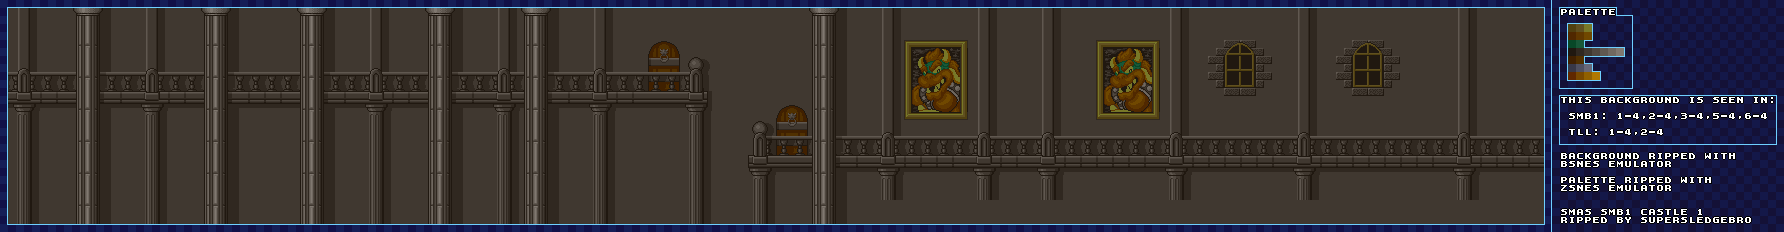
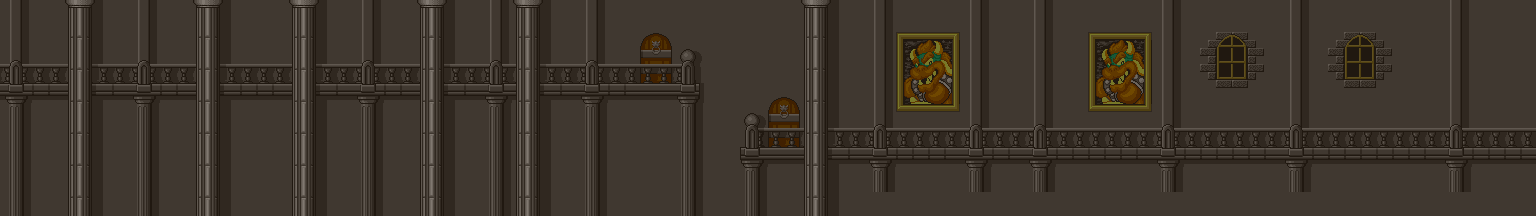
Castle tiles and background

diff --git a/Source/Game/Editor/Windows/TileWindow.cs b/Source/Game/Editor/Windows/TileWindow.cs
@@ -8,6 +8,7 @@
             TileObjectDefs.Block,
             TileObjectDefs.QuestionTile,
             TileObjectDefs.QuestionTile_Empty,
+            TileObjectDefs.QuestionTile_Empty_Castle,
             TileObjectDefs.Brick,
             TileObjectDefs.Pipe,
             TileObjectDefs.GrassDecor,
@@ -18,6 +19,18 @@
             TileObjectDefs.BlockUg,
             TileObjectDefs.Tree,
             TileObjectDefs.TreeTrunk,
+            TileObjectDefs.CastleFloor,
+            TileObjectDefs.CastleFloorInnerLeft,
+            TileObjectDefs.CastleFloorInnerRight,
+            TileObjectDefs.CastleStair1,
+            TileObjectDefs.CastleStair2,
+            TileObjectDefs.CastleStair3,
+            TileObjectDefs.CastleStair4,
+            TileObjectDefs.CastleCeiling,
+            TileObjectDefs.CastleCeilingSingle,
+            TileObjectDefs.CastleBridge,
+            TileObjectDefs.Chain,
+            TileObjectDefs.Lava,
         ];
 
         public override void Update() { }
@@ -28,10 +41,26 @@
         public static readonly BasicTile Block = new(16, true, 0, 2);
         public static readonly BasicTile BlockUg = new(20, true, 4, 2);
         public static readonly BasicTile QuestionTile_Empty = new(18, true, 2, 2);
+        public static readonly BasicTile QuestionTile_Empty_Castle = new(31, true, 7, 3);
+        public static readonly BasicTile CastleCeilingSingle = new(126, true, 6, 15);
+        public static readonly BasicTile CastleBridge = new(118, true, 6, 14);
+        public static readonly BasicTile Chain = new(110, false, 6, 13);
+        public static readonly BasicTile CastleFloorInnerLeft = new(120, true, 0, 15);
+        public static readonly BasicTile CastleFloorInnerRight = new(112, true, 0, 14);
+        public static readonly BasicTile CastleStair1 = new(108, true, 4, 13);
+        public static readonly BasicTile CastleStair2 = new(109, true, 5, 13);
+        public static readonly BasicTile CastleStair3 = new(116, true, 4, 14);
+        public static readonly BasicTile CastleStair4 = new(117, true, 5, 14);
 
         public static readonly InstanceTile<QuestionTile> QuestionTile = new(1, 2);
         public static readonly InstanceTile<BrickTile> Brick = new(3, 2);
         public static readonly InstanceTile<CoinTile> Coin = new(7, 2);
+
+        public static readonly PrefabTile Lava = new(false, 0, 13,
+        [
+            new PrefabActionTile(0, 0, new LavaTile()),
+            new PrefabActionRecurse(0, 1, new LavaTileBottom(), 0, 1)
+        ]);
 
         public static readonly PrefabTile Pipe = new(true, 0, 3,
         [
@@ -82,6 +111,12 @@
             new PrefabActionTile(5, 4, new SimpleTile(53 + 32, false), OnlyOnAir: false),
 
             new PrefabActionEntity(40, 64, typeof(CastleEntrance))
+        ]);
+
+        public static readonly PrefabTile CastleCeiling = new(true, 4, 15,
+        [
+            new PrefabActionTile(0, 0, new SimpleTile(124, true)),
+            new PrefabActionTile(1, 0, new SimpleTile(125, true)),
         ]);
 
         // 0bNESW = Id
@@ -198,6 +233,27 @@
             [0b_1101] = new BasicTile(45, false, 0, 0),
             [0b_1111] = new BasicTile(45, false, 0, 0),
             [0b_0111] = new BasicTile(45, false, 0, 0),
+        });
+
+        public static readonly RuleTile CastleFloor = new(true, 2, 13, new()
+        {
+            [0b_0000] = new BasicTile(106, true, 0, 0),
+            [0b_0101] = new BasicTile(106, true, 0, 0),
+            [0b_0111] = new BasicTile(106, true, 0, 0),
+            [0b_0100] = new BasicTile(105, true, 0, 0),
+            [0b_0110] = new BasicTile(105, true, 0, 0),
+            [0b_0001] = new BasicTile(107, true, 0, 0),
+            [0b_0011] = new BasicTile(107, true, 0, 0),
+            [0b_1000] = new BasicTile(114, true, 0, 0),
+            [0b_1010] = new BasicTile(114, true, 0, 0),
+            [0b_1111] = new BasicTile(114, true, 0, 0),
+            [0b_1101] = new BasicTile(114, true, 0, 0),
+            [0b_1110] = new BasicTile(113, true, 0, 0),
+            [0b_1011] = new BasicTile(115, true, 0, 0),
+
+            [0b_0010] = new BasicTile(106, true, 0, 0),
+            [0b_1001] = new BasicTile(115, true, 0, 0),
+            [0b_1100] = new BasicTile(113, true, 0, 0),
         });
     }
 }

diff --git a/Source/Game/Tiles/AnimatedTile.cs b/Source/Game/Tiles/AnimatedTile.cs
@@ -17,6 +17,9 @@
         public static readonly Sprite CoinSprite = new("items", new Animation(3, 16, 16, 0, 0.15f));
         public static readonly Sprite HudCoinSprite = new("hud_coin", new Animation(3, 16, 8, 0, 0.15f));
 
+        public static readonly Sprite LavaTopSprite = new("lava", new Animation(8, 16, 16, 0, 0.15f));
+        public static readonly Sprite LavaBottomSprite = new("lava", new Animation(1, 16, 16, 16, 0.15f));
+
         public Vector2 SpriteOffset;
 
         public Sprite? DrawSprite { private get; set; }
@@ -37,6 +40,9 @@
 
             CoinSprite.Update();
             HudCoinSprite.Update();
+
+            LavaTopSprite.Update();
+            LavaBottomSprite.Update();
         }
 
         public override void Update() { }

diff --git a/Source/Game/Editor/TileObjects/PrefabTile.cs b/Source/Game/Editor/TileObjects/PrefabTile.cs
@@ -24,7 +24,17 @@
                 if (action is PrefabActionTile tileAction)
                 {
                     if (tileAction.Col == 0 && tileAction.Row == 0)
-                        retTile = tileAction.Tile;
+                    {
+                        if (!tileAction.OnlyOnAir)
+                        {
+                            retTile = tileAction.Tile;
+                        }
+                        else if (world.GetTile(col, row, out Tile tile)
+                            && tile == SimpleTile.Air)
+                        {
+                            retTile = tileAction.Tile;
+                        }
+                    }
 
                     if (action is PrefabActionRecurse recurse)
                     {

diff --git a/Source/Game/Editor/Windows/WorldWindow.cs b/Source/Game/Editor/Windows/WorldWindow.cs
@@ -187,7 +187,11 @@
 
         private void PlaceTile(TileWindow tileWindow, int tx, int ty)
         {
-            Tile? tile = Editor.World.SetTile(tx, ty, tileWindow.PlaceSelected(Editor.World, tx, ty));
+            Tile selectedTile = tileWindow.PlaceSelected(Editor.World, tx, ty);
+            if (selectedTile == SimpleTile.Air)
+                return;
+
+            Tile? tile = Editor.World.SetTile(tx, ty, selectedTile);
             if (tile is ContainerTile ct)
             {
                 ct.SetItem(Editor.PropertyWindow.ContainerTileItem);

diff --git a/Source/Game/Backgrounds/WorldBackground.cs b/Source/Game/Backgrounds/WorldBackground.cs
@@ -53,6 +53,12 @@
 
                 parallax.AddLayer(new WaterfallSteamParallaxLayer(new Vector2(0f, -152f).Scale(), 0.5f, 2));
             }
+            else if (background == WorldBackground.Castle)
+            {
+                parallax = new ParallaxBackground(Color.Black);
+                parallax.AddLayer(new ParallaxLayer(
+                    Assets.GetTex("bg_castle"), new Vector2(0f, -16f).Scale(), 0.5f));
+            }
 
             return parallax;
         }

diff --git a/Source/Game/Tiles/LavaTile.cs b/Source/Game/Tiles/LavaTile.cs
@@ -1,0 +1,18 @@
+namespace Mario2
+{
+    public class LavaTile : AnimatedTile
+    {
+        public LavaTile() : base(false)
+        {
+            DrawSprite = LavaTopSprite;
+        }
+    }
+
+    public class LavaTileBottom : AnimatedTile
+    {
+        public LavaTileBottom() : base(false)
+        {
+            DrawSprite = LavaBottomSprite;
+        }
+    }
+}
